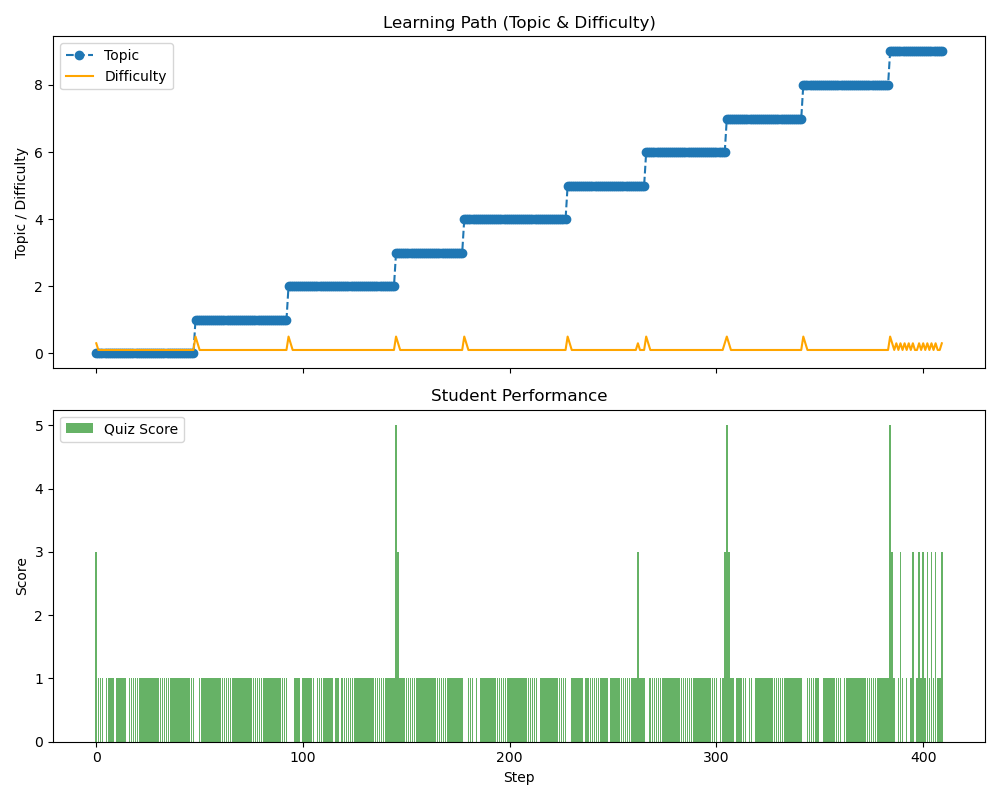
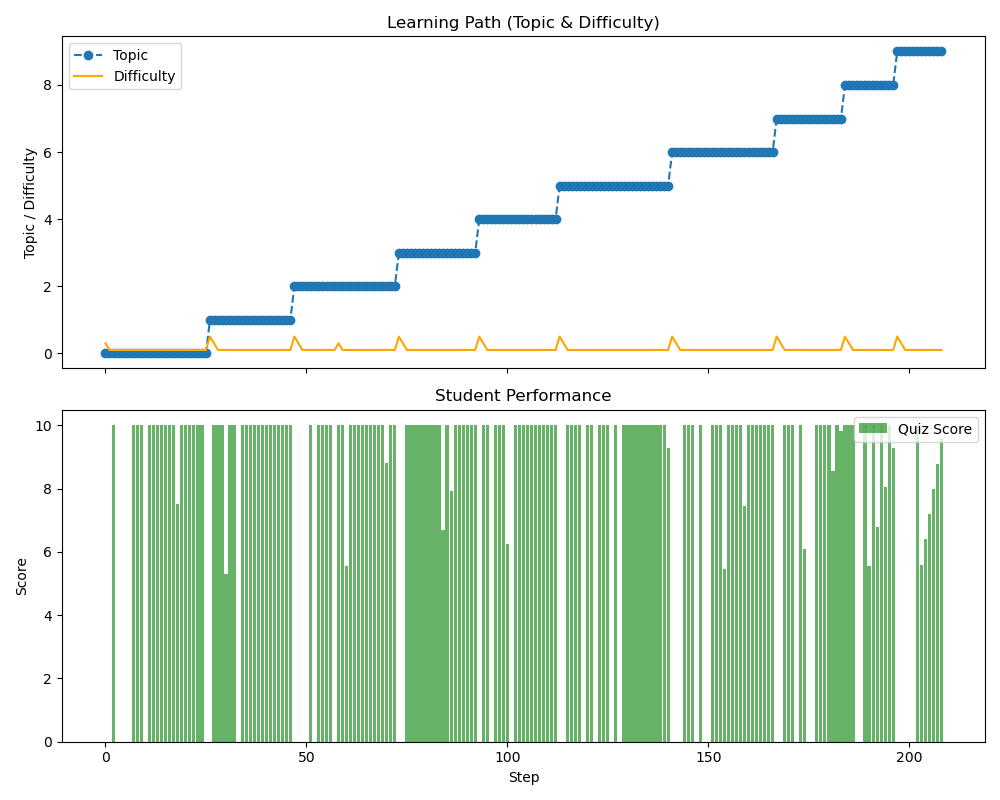
Ready

diff --git a/ai_tutor_rl/src/student.py b/ai_tutor_rl/src/student.py
@@ -29,9 +29,17 @@ class StudentSimulator:
         
         # Score based on difficulty and correctness
         # score = (difficulty * 10) if is_correct else 0
-        # FIXED: Score should be 10 if correct, regardless of difficulty, 
-        # so that passing an easy question isn't seen as a failure by the rules.
-        score = 10.0 if is_correct else 0.0
+        # FIXED: Score is now continuous (0-10) to simulate semantic grading
+        if is_correct:
+            # Correct answers get high scores (7.5 - 10.0)
+            score = np.random.uniform(7.5, 10.0)
+        else:
+            # Incorrect answers get lower scores (0.0 - 7.0)
+            # Higher knowledge might mean a "better" wrong answer (partial credit)
+            max_wrong_score = 4.0 + (3.0 * topic_knowledge) # Up to 7.0
+            score = np.random.uniform(0.0, min(7.0, max_wrong_score))
+            
+        score = round(score, 1)
         
         # Time taken: harder questions take longer. Higher knowledge reduces time.
         base_time = 20  # seconds (Reduced from 30 to make students faster)

diff --git a/ai_tutor_rl/api.py b/ai_tutor_rl/api.py
@@ -4,6 +4,11 @@ from pydantic import BaseModel
 import torch
 import numpy as np
 import os
+import sys
+
+# Add current directory to path so 'src' module can be found
+sys.path.append(os.path.dirname(os.path.abspath(__file__)))
+
 from src.agent import DQNAgent
 from src.nlp_engine import NLPEngine
 
